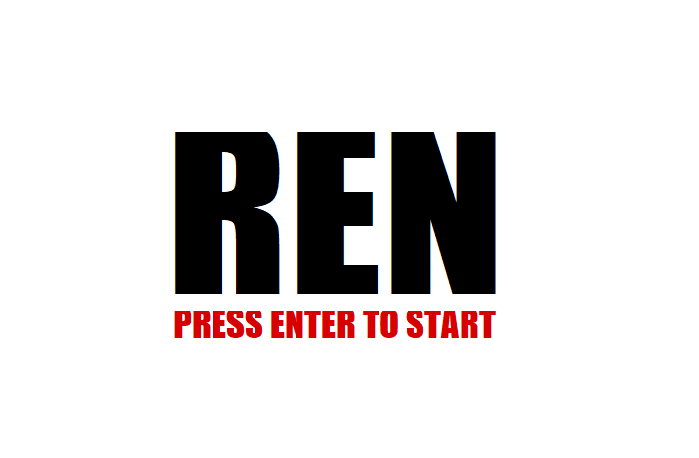
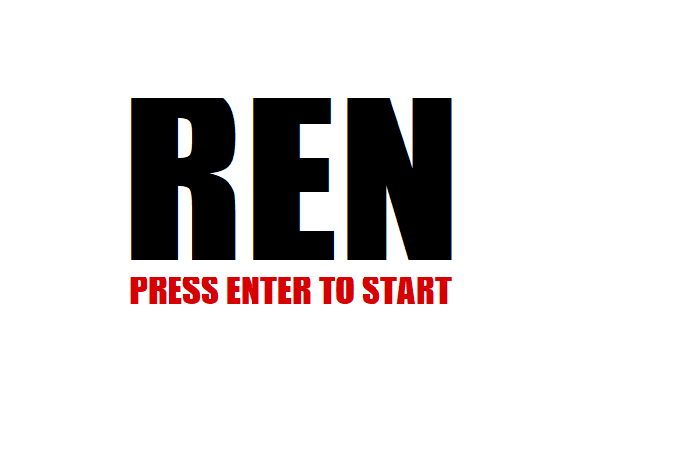
スタート画面追加

Changed region(s): [[0.1803, 0.214, 0.721, 0.7642]]

diff --git a/team3/startmenu.java b/team3/startmenu.java
@@ -1,0 +1,29 @@
+import greenfoot.*;  // (World, Actor, GreenfootImage, Greenfoot and MouseInfo)
+
+/**
+ * Write a description of class startmenu here.
+ * 
+ * @author (your name) 
+ * @version (a version number or a date)
+ */
+public class startmenu extends World
+{
+
+    /**
+     * Constructor for objects of class startmenu.
+     * 
+     */
+    public startmenu()
+    {    
+        // Create a new world with 600x400 cells with a cell size of 1x1 pixels.
+        super(600, 400, 1); 
+    }
+    public void act()
+    {    
+        if(Greenfoot.isKeyDown("Enter")){
+            World Myworld = new MyWorld();
+            Greenfoot.setWorld(Myworld);
+        }
+    }
+    
+}

diff --git a/team3/george.java b/team3/george.java
@@ -59,7 +59,7 @@ public class george extends Actor
              {if( flag_tama == 0 ){
                 getWorld().addObject( new georgeweapon2(getRotation()), x, y );
                 
-                flag_tama = 50;
+                flag_tama = 40;
             }
         }
     }  

diff --git a/team3/ren.java b/team3/ren.java
@@ -60,7 +60,7 @@ public class ren extends Actor
              {if( flag_tama == 0 ){
                 getWorld().addObject( new renweapon2(getRotation()), x, y );
                 
-                flag_tama = 50;
+                flag_tama = 40;
             }
         }
     }  
